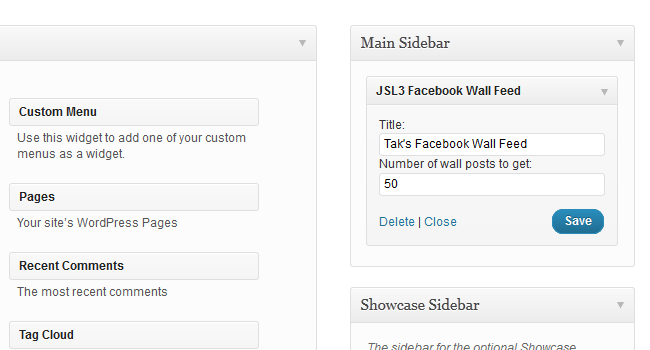
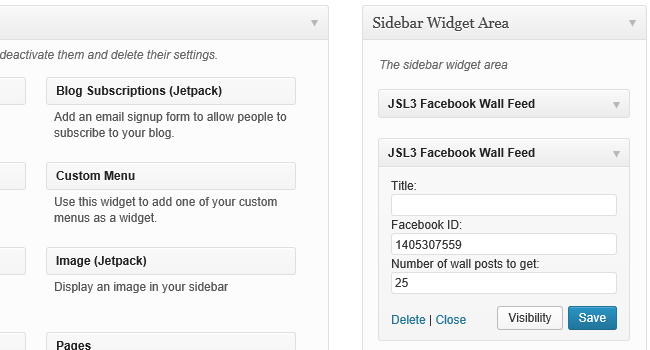
Updated help section with new multiple feed instructions.
git-svn-id: https://plugins.svn.wordpress.org/jsl3-facebook-wall-feed/trunk@802843 b8457f37-d9ea-0310-8a92-e5e31aec5664

diff --git a/jsl3-facebook-wall-feed.php b/jsl3-facebook-wall-feed.php
@@ -2,8 +2,8 @@
 /* 
 Plugin Name: JSL3 Facebook Wall Feed
 Plugin URI: http://www.takanudo.com/jsl3-facebook-wall-feed
-Description: Displays your facebook wall. Makes use of Fedil Grogan's <a href="http://fedil.ukneeq.com/2011/06/23/facebook-wall-feed-for-wordpress-updated/">Facebook Wall Feed for WordPress</a> code and changes suggested by <a href="http://danielwestergren.se">Daniel Westergren</a> and <a href="http://www.neilpie.co.uk">Neil Pie</a>.
-Version: 1.6
+Description: Displays your facebook wall. Makes use of Fedil Grogan's <a href="http://fedil.ukneeq.com/2011/06/23/facebook-wall-feed-for-wordpress-updated/">Facebook Wall Feed for WordPress</a> code and changes suggested by <a href="http://danielwestergren.se">Daniel Westergren</a> and <a href="http://www.neilpie.co.uk">Neil Pie</a>. German translation provided by Remo Fleckinger.
+Version: 1.7
 Author: Takanudo
 Author URI: http://www.takanudo.com
 License: GPL2
@@ -49,7 +49,7 @@ Copyright 2013  Takanudo  (email : fwf@takanudo.com)
  * @author     Takanudo <fwf@takanudo.com>
  * @copyright  2011-2013
  * @license    http://www.gnu.org/licenses/gpl.html  GNU General Public License 3
- * @version    1.6
+ * @version    1.7
  * @link       http://takando.com/jsl3-facebook-wall-feed
  * @since      File available since Release 1.0
  */
@@ -237,8 +237,8 @@ if ( ! function_exists( 'jsl3_fwf_print_widget' ) ) {
                '    <img title="' . __( 'Drag the JSL3 Facebook Wall Feed widget to the sidebar of your choice.', JSL3_FWF_TEXT_DOMAIN ) . '" src="' . JSL3_FWF_PLUGIN_URL . '/screenshot-11.png" alt="' . __( 'Drag the JSL3 Facebook Wall Feed widget to the sidebar of your choice.', JSL3_FWF_TEXT_DOMAIN ) . '" />' .
                '  </li>' .
                '  <li>' .
-               __( 'Give the widget a title (or leave it blank) and enter how many posts you want to get from your wall. Then click <strong>Save</strong>.', JSL3_FWF_TEXT_DOMAIN ) . '<br />' .
-               '    <img title="' . __( 'Give the widget a title (or leave it blank) and enter how many posts you want to get from your wall.', JSL3_FWF_TEXT_DOMAIN ) . '" src="' . JSL3_FWF_PLUGIN_URL . '/screenshot-12.png" alt="' . __( 'Give the widget a title (or leave it blank) and enter how many posts you want to get from your wall.', JSL3_FWF_TEXT_DOMAIN ) . '" />' .
+               __( 'Give the widget a title (or leave it blank) and enter how many posts you want to get from your wall. You may also enter the Facebook ID of the Facebook page you want to display in the widget.  If you leave the Facebook ID blank, the widget will use the Facebook ID entered on the settings page for the plugin.  Click <strong>Save</strong>.', JSL3_FWF_TEXT_DOMAIN ) . '<br />' .
+               '    <img title="' . __( 'Give the widget a title (or leave it blank) and enter how many posts you want to get from your wall.  You may also enter the Facebook ID of the feed you want to display.  If you leave the Facebook ID blank, the plugin will use the Facebook ID entered on the settings page for the plugin.', JSL3_FWF_TEXT_DOMAIN ) . '" src="' . JSL3_FWF_PLUGIN_URL . '/screenshot-12.png" alt="' . __( 'Give the widget a title (or leave it blank) and enter how many posts you want to get from your wall.  You may also enter the Facebook ID of the feed you want to display.  If you leave the Facebook ID blank, the plugin will use the Facebook ID entered on the settings page for the plugin.', JSL3_FWF_TEXT_DOMAIN ) . '" />' .
                '  </li>' .
                '  <li>' .
                __( 'Go check out your Facebook Wall Feed on your WordPress site.', JSL3_FWF_TEXT_DOMAIN ) . '<br />' .
@@ -265,8 +265,8 @@ if ( ! function_exists( 'jsl3_fwf_print_short' ) ) {
 
         return '<ol>' .
                '  <li>' .
-               __( 'Add the shortcode <strong>[jsl3_fwf]</strong> or <strong>[jsl3_fwf limit="1"]</strong> to the <strong>HTML</strong> view of a post or page.', JSL3_FWF_TEXT_DOMAIN ) . '<br />' .
-               '    <img title="' . __( 'Add the shortcode [jsl3_fwf] or [jsl3_fwf limit="1"] to the HTML view of a post or page.', JSL3_FWF_TEXT_DOMAIN ) . '" src="' . JSL3_FWF_PLUGIN_URL . '/screenshot-14.png" alt="' . __( 'Add the shortcode [jsl3_fwf] or [jsl3_fwf limit="1"] to the HTML view of a post or page.', JSL3_FWF_TEXT_DOMAIN ) . '" />' .
+               __( 'Add the shortcode <strong>[jsl3_fwf]</strong> or <strong>[jsl3_fwf limit="1"]</strong> or even <strong>[jsl3_fwf limit="1" fb_id="1405307559"]</strong> to the <strong>Text</strong> view of a post or page.  If you do not enter a Facebook ID, the plugin will use the Facebook ID entered on the settings page for the plugin.', JSL3_FWF_TEXT_DOMAIN ) . '<br />' .
+               '    <img title=\'' . __( 'Add the shortcode [jsl3_fwf] or [jsl3_fwf limit="1"] or even [jsl3_fwf limit="1" fb_id="1405307559"] to the Text view of a post or page.  If you do not enter a Facebook ID, the plugin will use the Facebook ID entered on the settings page for the plugin.', JSL3_FWF_TEXT_DOMAIN ) . '\' src="' . JSL3_FWF_PLUGIN_URL . '/screenshot-14.png" alt=\'' . __( 'Add the shortcode [jsl3_fwf] or [jsl3_fwf limit="1"] or even [jsl3_fwf limit="1" fb_id="1405307559"] to the Text view of a post or page.  If you do not enter a Facebook ID, the plugin will use the Facebook ID entered on the settings page for the plugin.', JSL3_FWF_TEXT_DOMAIN ) . '\' />' .
                '  </li>' .
                '  <li>' .
                __( 'View your Facebook Wall Feed on your WordPress post or page.', JSL3_FWF_TEXT_DOMAIN ) . '<br />' .

diff --git a/php/class-jsl3-facebook-wall-feed.php b/php/class-jsl3-facebook-wall-feed.php
@@ -27,7 +27,7 @@
  * @author     Fedil Grogan <fedil@ukneeq.com>
  * @copyright  2011-2013
  * @license    http://www.gnu.org/licenses/gpl.html  GNU General Public License 3
- * @version    1.6
+ * @version    1.7
  * @link       http://takando.com/jsl3-facebook-wall-feed
  * @since      File available since Release 1.0
  */
@@ -50,7 +50,7 @@
  * @author     Fedil Grogan <fedil@ukneeq.com>
  * @copyright  2011-2013
  * @license    http://www.php.net/license/3_01.txt  PHP License 3.01
- * @version    1.6
+ * @version    1.7
  * @link       http://takando.com/jsl3-facebook-wall-feed
  * @since      File available since Release 1.0
  */

diff --git a/php/class-jsl3-fwf-widget.php b/php/class-jsl3-fwf-widget.php
@@ -27,7 +27,7 @@
  * @author     Fedil Grogan <fedil@ukneeq.com>
  * @copyright  2011-2013
  * @license    http://www.gnu.org/licenses/gpl.html  GNU General Public License 3
- * @version    1.6
+ * @version    1.7
  * @link       http://takando.com/jsl3-facebook-wall-feed
  * @since      File available since Release 1.0
  */
@@ -47,7 +47,7 @@
  * @author     Fedil Grogan <fedil@ukneeq.com>
  * @copyright  2011-2013
  * @license    http://www.php.net/license/3_01.txt  PHP License 3.01
- * @version    1.6
+ * @version    1.7
  * @link       http://takando.com/jsl3-facebook-wall-feed
  * @since      File available since Release 1.0
  */

diff --git a/php/class-uki-facebook-wall-feed.php b/php/class-uki-facebook-wall-feed.php
@@ -27,7 +27,7 @@
  * @author     Fedil Grogan <fedil@ukneeq.com>
  * @copyright  2011-2013
  * @license    http://www.gnu.org/licenses/gpl.html  GNU General Public License 3
- * @version    1.6
+ * @version    1.7
  * @link       http://takando.com/jsl3-facebook-wall-feed
  * @since      File available since Release 1.0
  */
@@ -47,7 +47,7 @@
  * @author     Takanudo <fwf@takanudo.com>
  * @copyright  2011-2013
  * @license    http://www.php.net/license/3_01.txt  PHP License 3.01
- * @version    1.6
+ * @version    1.7
  * @link       http://takando.com/jsl3-facebook-wall-feed
  * @since      File available since Release 1.0
  */

diff --git a/constants.php b/constants.php
@@ -25,7 +25,7 @@
  * @author     Takanudo <fwf@takanudo.com>
  * @copyright  2011-2013
  * @license    http://www.gnu.org/licenses/gpl.html  GNU General Public License 3
- * @version    1.6
+ * @version    1.7
  * @link       http://takando.com/jsl3-facebook-wall-feed
  * @since      File available since Release 1.0
  */
@@ -118,7 +118,7 @@ if ( ! defined( 'JSL3_FWF_VERSION_KEY' ) )
  * The version number used in the WordPress database
  */
 if ( ! defined( 'JSL3_FWF_VERSION_NUM' ) )
-    define( 'JSL3_FWF_VERSION_NUM', '1.6' );
+    define( 'JSL3_FWF_VERSION_NUM', '1.7' );
 
 /**
  * The file name used for the UKI files

diff --git a/uninstall.php b/uninstall.php
@@ -25,7 +25,7 @@
  * @author     Takanudo <fwf@takanudo.com>
  * @copyright  2011-2013
  * @license    http://www.gnu.org/licenses/gpl.html  GNU General Public License 3
- * @version    1.6
+ * @version    1.7
  * @link       http://takando.com/jsl3-facebook-wall-feed
  * @since      File available since Release 1.0
  */
